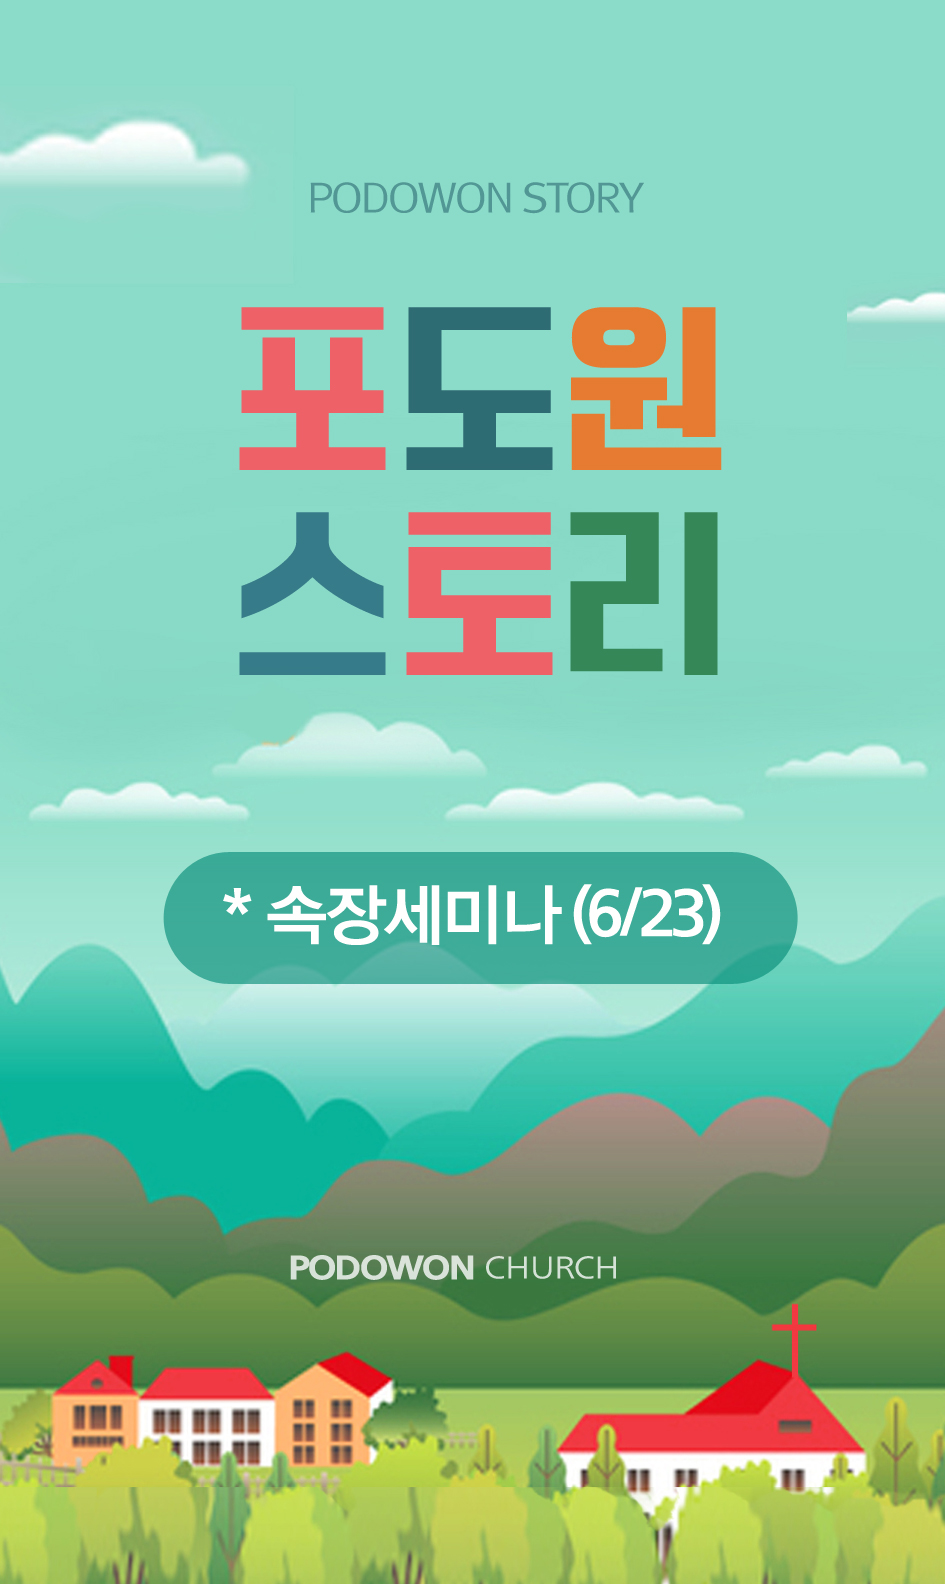
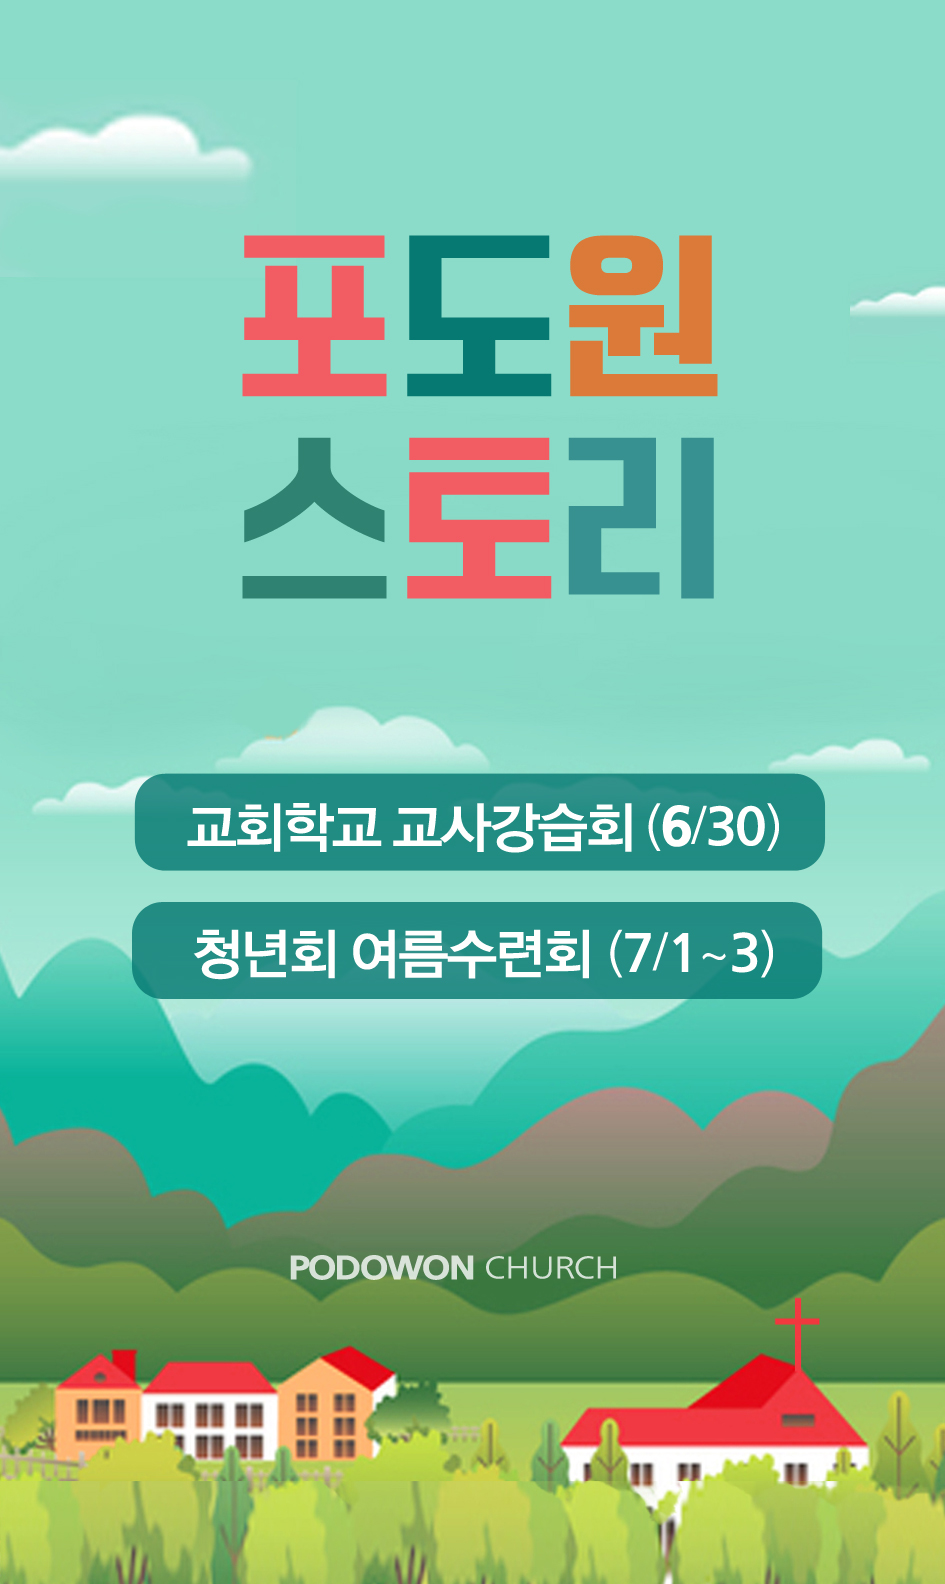
story

diff --git a/js/digital.js b/js/digital.js
@@ -279,7 +279,21 @@
         'asset/image/digital/포도원스토리.webp',
         'asset/image/digital/1.webp',
         'asset/image/digital/2.webp',
-        'asset/image/digital/3.webp'
+        'asset/image/digital/3.webp',
+        'asset/image/digital/17.webp',
+        'asset/image/digital/4.webp',
+        'asset/image/digital/5.webp',
+         'asset/image/digital/6.webp',
+        'asset/image/digital/7.webp',
+        'asset/image/digital/8.webp',
+        'asset/image/digital/9.webp',
+        'asset/image/digital/10.webp',
+         'asset/image/digital/11.webp',
+        'asset/image/digital/12.webp',
+        'asset/image/digital/13.webp',
+        'asset/image/digital/14.webp',
+        'asset/image/digital/15.webp',
+          'asset/image/digital/16.webp',
         
         ]
 
